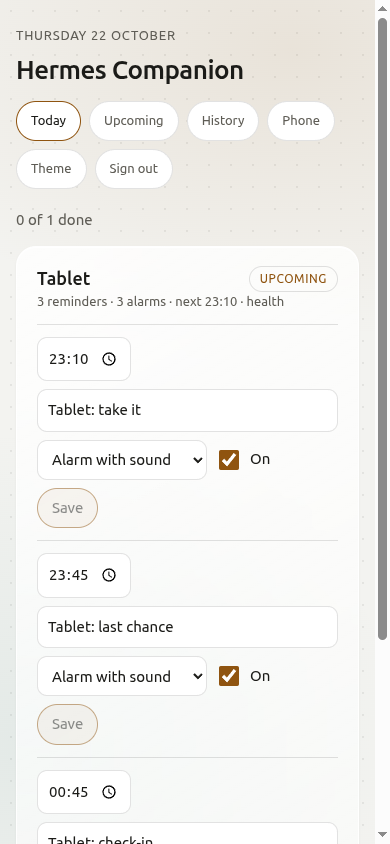
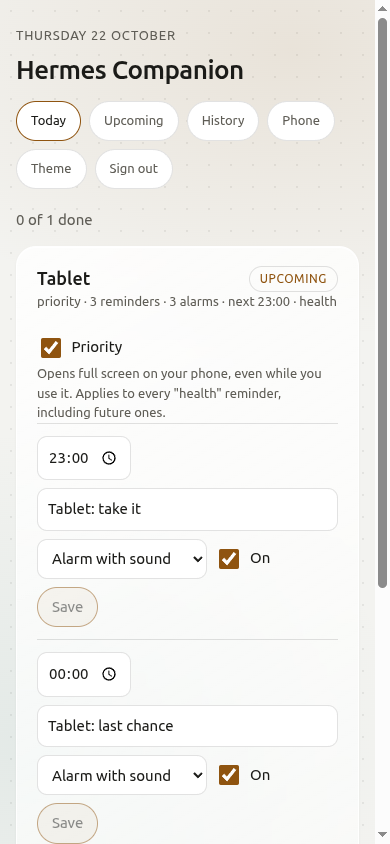
0.3.0: Priority switch (full-screen alarms), use case scenarios
Priority is set per activity on the dashboard and, for a named category, covers future reminders too.
The app opens priority reminders full screen even while in use (needs 'display over other apps').

Claude-Session: https://claude.ai/code/session_01BioHq6vUpe5WaqKVaAc2YH

diff --git a/apps/backend/app/static/dashboard.html b/apps/backend/app/static/dashboard.html
@@ -117,9 +117,16 @@ const openCards=new Set();
 function card(g,editable){const c=el('div','card stack');const h=el('button','head');h.type='button';h.setAttribute('aria-expanded',String(openCards.has(g.key)));
   const top=el('div','row');top.append(el('span','nm',g.title),el('span','state '+g.state,STATE[g.state]));
   const parts=[g.jobs.length+(g.jobs.length===1?' reminder':' reminders'),g.alarms+(g.alarms===1?' alarm':' alarms')];if(g.banners)parts.push(g.banners+(g.banners===1?' banner':' banners'));
+  const openJobs=g.jobs.filter(j=>j.state==='scheduled'||j.state==='fired'||j.state==='cancelled');const isPri=openJobs.length>0&&openJobs.every(j=>j.priority!=='normal');
+  if(isPri)parts.unshift('priority');
   if(g.next&&g.state==='upcoming')parts.push('next '+hhmm(T(g.next.fire_at)));if(g.category&&g.category!=='generic')parts.push(g.category);
   h.append(top,el('div','small muted',parts.join(' · ')));c.append(h);
   const body=el('div');body.hidden=!openCards.has(g.key);
+  if(editable&&openJobs.length){const pr=el('label','sw');pr.style.padding='10px 0 2px';const pc=el('input');pc.type='checkbox';pc.checked=isPri;pr.append(pc,el('span','','Priority'));
+    const cat=g.category&&g.category!=='generic'?g.category:'';
+    const help=el('div','small muted',cat?'Opens full screen on your phone, even while you use it. Applies to every "'+cat+'" reminder, including future ones.':'Opens full screen on your phone, even while you use it.');
+    pc.onchange=async()=>{try{const r=await send('POST','/api/priority',{job_id:openJobs[0].job_id,priority:pc.checked?'high':'normal'});toast(pc.checked?'Priority on':'Priority off');await load(true)}catch(e){pc.checked=!pc.checked;if(e.message!=='auth')toast(e.message)}};
+    body.append(pr,help)}
   g.jobs.forEach(j=>body.append(reminder(j,editable)));
   if(editable&&(g.state==='upcoming'||g.state==='noanswer')){const d=el('button','btn','Mark done');d.type='button';d.style.alignSelf='flex-start';
     d.onclick=async()=>{try{d.disabled=true;await send('POST','/api/reminders/'+g.jobs[0].job_id+'/done');toast('Marked done');await load(true)}catch(e){d.disabled=false;if(e.message!=='auth')toast(e.message)}};body.append(d)}

diff --git a/apps/frontend/app/src/main/java/com/hermes/companion/alarm/AlarmService.kt b/apps/frontend/app/src/main/java/com/hermes/companion/alarm/AlarmService.kt
@@ -73,9 +73,39 @@ class AlarmService : Service() {
         startAsForeground(NotificationHelper.ringingNotification(this, job))
         store.log("alarm", "ringing ${job.jobId} (${job.title})")
         startSound(job)
+        if (job.priority != "normal") showFullScreen(job)
         main.removeCallbacks(autoStop)
         main.postDelayed(autoStop, RING_TIMEOUT_MS)
         return START_NOT_STICKY
+    }
+
+    /**
+     * Priority reminders open the alarm screen straight away, even while another app is in use. Android only shows a
+     * banner in that case, so this needs the "display over other apps" permission; a tiny invisible overlay window
+     * is shown for a moment so Android lets the screen open from the background.
+     */
+    private fun showFullScreen(job: Job) {
+        if (!android.provider.Settings.canDrawOverlays(this)) return
+        val wm = getSystemService(android.view.WindowManager::class.java)
+        val marker = android.view.View(this)
+        val params = android.view.WindowManager.LayoutParams(
+            1, 1, android.view.WindowManager.LayoutParams.TYPE_APPLICATION_OVERLAY,
+            android.view.WindowManager.LayoutParams.FLAG_NOT_FOCUSABLE or android.view.WindowManager.LayoutParams.FLAG_NOT_TOUCHABLE,
+            android.graphics.PixelFormat.TRANSLUCENT,
+        )
+        runCatching { wm.addView(marker, params) }
+        try {
+            startActivity(
+                Intent(this, com.hermes.companion.AlarmActivity::class.java)
+                    .putExtra(com.hermes.companion.AlarmActivity.EXTRA_JOB, job.jobId)
+                    .putExtra(com.hermes.companion.AlarmActivity.EXTRA_RINGING, true)
+                    .addFlags(Intent.FLAG_ACTIVITY_NEW_TASK or Intent.FLAG_ACTIVITY_CLEAR_TOP),
+            )
+            Store.get(this).log("alarm", "priority full screen for ${job.jobId}")
+        } catch (e: Exception) {
+            Store.get(this).log("alarm", "priority full screen failed for ${job.jobId}: ${e.message}")
+        }
+        main.postDelayed({ runCatching { wm.removeView(marker) } }, 3_000)
     }
 
     private fun placeholderJob() = Job(

diff --git a/apps/frontend/app/src/main/java/com/hermes/companion/ui/SettingsScreen.kt b/apps/frontend/app/src/main/java/com/hermes/companion/ui/SettingsScreen.kt
@@ -100,6 +100,14 @@ fun SettingsScreen(state: UiState, vm: MainViewModel) {
         PermRow("Unrestricted battery use", state.perms.batteryUnrestricted, "Allow") {
             context.startActivity(openAppSettings(context, Settings.ACTION_REQUEST_IGNORE_BATTERY_OPTIMIZATIONS))
         }
+        PermRow("Show priority alarms over other apps", state.perms.overlay, "Allow") {
+            context.startActivity(openAppSettings(context, Settings.ACTION_MANAGE_OVERLAY_PERMISSION))
+        }
+        Text(
+            "Reminders marked Priority on the dashboard open full screen even while you are using the phone. This needs the " +
+                "\"over other apps\" permission. Without it they appear as a banner at the top.",
+            style = MaterialTheme.typography.bodyMedium,
+        )
         Text(
             "Alarms ring on the phone's alarm volume, even when the phone is on silent. " +
                 "Keep the alarm volume up (press a volume key and open the volume panel to check it).",
@@ -108,7 +116,8 @@ fun SettingsScreen(state: UiState, vm: MainViewModel) {
 
         HorizontalDivider()
         Text("Test", style = MaterialTheme.typography.titleMedium)
-        OutlinedButton(onClick = vm::testAlarm, modifier = Modifier.fillMaxWidth()) { Text("Ring a test alarm in 10 seconds") }
+        OutlinedButton(onClick = { vm.testAlarm(false) }, modifier = Modifier.fillMaxWidth()) { Text("Ring a test alarm in 10 seconds") }
+        OutlinedButton(onClick = { vm.testAlarm(true) }, modifier = Modifier.fillMaxWidth()) { Text("Ring a priority test alarm in 10 seconds") }
     }
 }
 

diff --git a/apps/frontend/app/src/main/java/com/hermes/companion/data/Store.kt b/apps/frontend/app/src/main/java/com/hermes/companion/data/Store.kt
@@ -266,12 +266,12 @@ class Store private constructor(context: Context) {
         }
     }
 
-    fun insertLocalTestJob(fireAtMs: Long): String {
+    fun insertLocalTestJob(fireAtMs: Long, priority: String = "normal"): String {
         val id = "local-test-$fireAtMs"
         val o = JSONObject()
-            .put("job_id", id).put("category", "test").put("title", "Test alarm")
+            .put("job_id", id).put("category", "test").put("title", if (priority == "normal") "Test alarm" else "Priority test alarm")
             .put("message", "If you can hear this, alarms work on this phone.")
-            .put("fire_at", Instant.ofEpochMilli(fireAtMs).toString()).put("priority", "critical")
+            .put("fire_at", Instant.ofEpochMilli(fireAtMs).toString()).put("priority", priority)
             .put("delivery", "alarm").put("sound_profile", "default").put("revision", 0)
             .put(
                 "actions",

diff --git a/apps/frontend/app/src/main/java/com/hermes/companion/Perms.kt b/apps/frontend/app/src/main/java/com/hermes/companion/Perms.kt
@@ -12,6 +12,8 @@ data class PermStatus(
     val fullScreen: Boolean = true,
     val exactAlarm: Boolean = true,
     val batteryUnrestricted: Boolean = true,
+    /** Needed only so priority reminders can open full screen while the phone is in use. */
+    val overlay: Boolean = true,
 ) {
     /** Without these the alarm cannot ring or show; battery settings only affect reliability on some phones. */
     val criticalOk get() = notifications && fullScreen && exactAlarm
@@ -23,5 +25,6 @@ object Perms {
         fullScreen = Build.VERSION.SDK_INT < 34 || context.getSystemService(NotificationManager::class.java).canUseFullScreenIntent(),
         exactAlarm = AlarmScheduler.canScheduleExact(context),
         batteryUnrestricted = context.getSystemService(PowerManager::class.java).isIgnoringBatteryOptimizations(context.packageName),
+        overlay = android.provider.Settings.canDrawOverlays(context),
     )
 }

diff --git a/apps/frontend/app/src/main/java/com/hermes/companion/ui/MainViewModel.kt b/apps/frontend/app/src/main/java/com/hermes/companion/ui/MainViewModel.kt
@@ -158,11 +158,11 @@ class MainViewModel(app: Application) : AndroidViewModel(app) {
         say("This phone is no longer paired.")
     }
 
-    fun testAlarm() {
+    fun testAlarm(priority: Boolean = false) {
         viewModelScope.launch(Dispatchers.IO) {
-            store.insertLocalTestJob(System.currentTimeMillis() + 10_000)
+            store.insertLocalTestJob(System.currentTimeMillis() + 10_000, if (priority) "high" else "normal")
             AlarmScheduler.reconcile(getApplication())
-            say("Test alarm will ring in 10 seconds.")
+            say(if (priority) "Priority test alarm will ring in 10 seconds. Open another app now to see it take over the screen." else "Test alarm will ring in 10 seconds.")
         }
     }
 }

diff --git a/apps/backend/tests/test_dashboard.py b/apps/backend/tests/test_dashboard.py
@@ -137,3 +137,38 @@ def test_edit_by_clock_time_uses_the_reminders_own_timezone(dash):
     assert r.json()["fire_at"] == "2030-07-01T12:05:00Z"  # 13:05 British Summer Time
     assert dash.get(f"/admin/jobs/{job['job_id']}", headers=ADMIN).json()["expires_at"] == "2030-07-01T13:05:00Z"
     assert dash.patch(f"/dashboard/api/reminders/{job['job_id']}", json={"time": "25:00"}).status_code == 422
+
+
+def test_priority_switch_covers_category_and_future_reminders(dash):
+    a = new_job(dash, fire_at=soon(60), category="prayer", cancel_group="p1", title="A")
+    b = new_job(dash, fire_at=soon(90), category="prayer", cancel_group="p2", title="B")
+    other = new_job(dash, fire_at=soon(90), category="health", title="C")
+    assert login(dash).status_code == 200
+    r = dash.post("/dashboard/api/priority", json={"job_id": a["job_id"], "priority": "high"})
+    assert r.status_code == 200 and r.json() == {"priority": "high", "scope": "category", "changed": 2}
+    pri = {j["title"]: j["priority"] for j in dash.get("/dashboard/api/state").json()["jobs"]}
+    assert pri == {"A": "high", "B": "high", "C": "normal"}
+    # a reminder created later in the same category inherits it, even if the sender asks for normal
+    late = new_job(dash, fire_at=soon(120), category="prayer", title="D", priority="normal")
+    assert late["priority"] == "high"
+    # switching off wins over a sender that asks for high
+    dash.post("/dashboard/api/priority", json={"job_id": a["job_id"], "priority": "normal"})
+    assert new_job(dash, fire_at=soon(150), category="prayer", title="E", priority="high")["priority"] == "normal"
+
+
+def test_priority_scopes_for_uncategorised_reminders(dash):
+    g1 = new_job(dash, fire_at=soon(60), cancel_group="g", title="G1")
+    g2 = new_job(dash, fire_at=soon(90), cancel_group="g", title="G2")
+    solo = new_job(dash, fire_at=soon(90), title="Solo")
+    assert login(dash).status_code == 200
+    assert dash.post("/dashboard/api/priority", json={"job_id": g1["job_id"], "priority": "high"}).json()["scope"] == "group"
+    assert dash.post("/dashboard/api/priority", json={"job_id": solo["job_id"], "priority": "high"}).json()["scope"] == "reminder"
+    pri = {j["title"]: j["priority"] for j in dash.get("/dashboard/api/state").json()["jobs"]}
+    assert pri == {"G1": "high", "G2": "high", "Solo": "high"}
+    assert dash.post("/dashboard/api/priority", json={"job_id": "nope", "priority": "high"}).status_code == 404
+    assert dash.post("/dashboard/api/priority", json={"job_id": g1["job_id"], "priority": "urgent"}).status_code == 422
+
+
+def test_priority_needs_sign_in(dash):
+    job = new_job(dash, fire_at=soon(60))
+    assert dash.post("/dashboard/api/priority", json={"job_id": job["job_id"], "priority": "high"}).status_code == 401

diff --git a/apps/backend/app/services.py b/apps/backend/app/services.py
@@ -91,6 +91,8 @@ def expire_due(conn: sqlite3.Connection) -> None:
 
 
 def create_job(conn: sqlite3.Connection, data: JobIn) -> dict:
+    rule = conn.execute("SELECT priority FROM category_priority WHERE category = ?", (data.category,)).fetchone()
+    priority = rule["priority"] if rule else data.priority
     job_id = data.job_id or uuid.uuid4().hex
     if conn.execute("SELECT 1 FROM jobs WHERE job_id = ?", (job_id,)).fetchone():
         raise Conflict(job_id)
@@ -102,7 +104,7 @@ def create_job(conn: sqlite3.Connection, data: JobIn) -> dict:
            VALUES (?, ?, ?, ?, ?, ?, ?, ?, ?, ?, ?, ?, 'scheduled', ?, ?, ?, ?)""",
         (
             job_id, data.routine_id, data.category, data.title, data.message, fmt(data.fire_at), data.tz,
-            fmt(data.expires_at) if data.expires_at else None, data.priority, data.delivery,
+            fmt(data.expires_at) if data.expires_at else None, priority, data.delivery,
             data.sound_profile, json.dumps([a.model_dump() for a in data.actions]),
             data.cancel_group, next_rev(conn), now, now,
         ),
@@ -166,6 +168,26 @@ def enable_job(conn: sqlite3.Connection, job_id: str) -> dict:
     )
     log_event(conn, "job_enabled", job_id=job_id)
     return job_to_dict(get_job(conn, job_id))
+
+
+def set_priority(conn: sqlite3.Connection, job_id: str, priority: str) -> dict:
+    """Owner's priority switch. A named category remembers the choice for future reminders too; otherwise it covers
+    the reminder's group, or the single reminder."""
+    row = get_job(conn, job_id)
+    if row["category"] != "generic":
+        conn.execute("INSERT OR REPLACE INTO category_priority(category, priority) VALUES (?, ?)", (row["category"], priority))
+        where, arg, scope = "category = ?", row["category"], "category"
+    elif row["cancel_group"]:
+        where, arg, scope = "cancel_group = ?", row["cancel_group"], "group"
+    else:
+        where, arg, scope = "job_id = ?", job_id, "reminder"
+    ids = [r["job_id"] for r in conn.execute(
+        f"SELECT job_id FROM jobs WHERE {where} AND state IN ('scheduled', 'fired') AND priority != ?", (arg, priority))]
+    for jid in ids:
+        conn.execute("UPDATE jobs SET priority = ?, revision = ?, updated_at = ? WHERE job_id = ?",
+                     (priority, next_rev(conn), now_iso(), jid))
+    log_event(conn, "priority_set", job_id=job_id, detail=f"{scope}={arg} priority={priority} changed={len(ids)}")
+    return {"priority": priority, "scope": scope, "changed": len(ids)}
 
 
 def mark_done(conn: sqlite3.Connection, job_id: str) -> dict:

diff --git a/apps/backend/app/reminders_api.py b/apps/backend/app/reminders_api.py
@@ -23,7 +23,7 @@ STYLES = {
 HISTORY_DAYS = 14
 FUTURE_DAYS = 8
 VISIBLE = ("job_id", "title", "message", "fire_at", "tz", "expires_at", "delivery", "sound_profile", "state",
-           "category", "cancel_group", "routine_id")
+           "category", "cancel_group", "routine_id", "priority")
 
 
 class ReminderEdit(BaseModel):
@@ -38,6 +38,11 @@ class ReminderEdit(BaseModel):
     @classmethod
     def utc(cls, v):
         return None if v is None else to_utc(v)
+
+
+class PriorityIn(BaseModel):
+    job_id: str
+    priority: Literal["normal", "high"]
 
 
 def style_of(job: dict) -> str:
@@ -82,6 +87,11 @@ def build_router(require_session) -> APIRouter:
         phones = [dict(p) for p in conn.execute(
             "SELECT name, created_at, last_seen_at FROM devices WHERE revoked_at IS NULL ORDER BY created_at")]
         return {"now": now_iso(), "jobs": jobs, "answers": answers, "phones": phones}
+
+    @router.post("/priority")
+    def priority(body: PriorityIn, conn: sqlite3.Connection = Depends(get_db)):
+        with tx(conn):
+            return _guard(lambda: services.set_priority(conn, body.job_id, body.priority))
 
     @router.patch("/reminders/{job_id}")
     def edit(job_id: str, body: ReminderEdit, conn: sqlite3.Connection = Depends(get_db)):

diff --git a/apps/backend/app/db.py b/apps/backend/app/db.py
@@ -46,6 +46,12 @@ CREATE TABLE IF NOT EXISTS jobs (
 CREATE INDEX IF NOT EXISTS idx_jobs_revision ON jobs(revision);
 CREATE INDEX IF NOT EXISTS idx_jobs_group ON jobs(cancel_group);
 
+-- Owner's priority choice per category (set from the dashboard). It wins over what the sender asked for.
+CREATE TABLE IF NOT EXISTS category_priority (
+    category TEXT PRIMARY KEY,
+    priority TEXT NOT NULL
+);
+
 CREATE TABLE IF NOT EXISTS responses (
     response_id TEXT PRIMARY KEY,
     job_id TEXT NOT NULL,

diff --git a/README.md b/README.md
@@ -2,7 +2,7 @@
 
 **Reminders you cannot miss. Your AI assistant (or any script) schedules real alarms on your Android phone, and the phone rings them by itself, even offline and on silent.**
 
-Version 0.2.0 · Android · open source (Apache-2.0) · runs on your own computer, no account, no subscription
+Version 0.3.0 · Android · open source (Apache-2.0) · runs on your own computer, no account, no subscription
 
 ![The dashboard: three reminders you can edit, switch off or mark done](docs/images/dashboard-today.png)
 
@@ -40,6 +40,55 @@ Those tools are good at what they do. This one is for the case where a missed re
 - **Habits:** water, exercise, sleep. The dashboard shows your streak.
 - **Anything your assistant should be able to wake you for.**
 
+## Use case scenarios
+Real examples of what people do with it. In each one you only talk to your assistant (or use `hc`); the phone and the dashboard do the rest.
+
+### 1. Five daily prayers, with a record of each
+**You say:** *"Here is this month's prayer timetable. Remind me for each prayer."*
+**What happens:** for each prayer your assistant sends a small group of reminders: a heads-up when the time starts, a "last chance" alarm before it ends, and a check-in afterwards. You switch **Priority** on for them once, so they open **full screen even while you are using the phone**, and they keep doing so every day.
+**What you do:** tap **Prayed**. The rest of that prayer's reminders cancel themselves, so you are never nagged for something you already did.
+**What you see:** the dashboard shows *3 of 5 done today*, a 14-day strip of done and missed for each prayer, and your assistant can answer *"Did I pray Asr yesterday?"*.
+
+### 2. Medicine, with proof you took it
+**You say:** *"Remind me at 8 and 8 in the evening to take my antibiotic for 7 days."*
+**What happens:** two alarms a day for a week, each with **Done** and **Snooze 10 min**. Mark it **Priority** and it will always take over the screen.
+**What you see:** every dose as done or missed, day by day. Ask *"Did I take the evening one yesterday?"* or show the history to your doctor or pharmacist. If you ring *Done* by accident, **Mark done** on the dashboard is one tap.
+
+### 3. Health habits you want to keep up
+**You say:** *"Remind me to drink water every two hours from 9 to 7, to stretch at 3, and to start winding down at 11 pm."*
+**What happens:** gentle **banner** reminders (no alarm), because none of these is an emergency. For the ones you really want to keep, such as the evening wind-down, switch the style to *alarm*.
+**What you see:** a habit card with a done-and-missed strip for the last 14 days, so you can see your streak without keeping a diary. Ask *"Which habit did I skip most this week?"*.
+
+### 4. Shifts, work and hand-overs
+**You say:** *"Wake me 45 minutes before my shift on weekdays, remind me to hand over at 5:30, and to send the invoices on Friday at 4."*
+**What happens:** a **priority alarm** for leaving on time, a **silent banner** for the hand-over (so it does not interrupt a meeting), and a normal alarm for the invoices.
+**What you see:** everything for the week under **Upcoming**. A shift changed? Move the time on the dashboard instead of asking again.
+
+### 5. Study or focus sessions
+**You say:** *"Four 25-minute study sessions with 5-minute breaks, starting at 6 pm."*
+**What happens:** eight short reminders: *start*, *break*, *start*… Use **banner, silent** so they nudge without breaking your concentration.
+**What you see:** how many sessions you finished each day, which makes a study streak.
+
+### 6. Home, bills and things that come round
+**You say:** *"Bins out every Thursday at 9 pm. Car insurance renews on 3 March, remind me a week before. Rent on the 1st."*
+**What happens:** one-off reminders days or weeks ahead, plus a repeating series. Because the phone holds the schedule itself, they ring even if your server is down that day.
+**What you see:** a quiet calendar of what is coming, and a record that the rent reminder was done.
+
+### 7. Your assistant looks after follow-ups for you
+**You say (while working on something with your assistant):** *"Remind me tomorrow at 9 to check the deployment."*
+**What happens:** your assistant sets the reminder itself, with a clear title and message. It can also set one at the end of a job it finishes: *"I'll remind you on Friday to review the results."*
+**What you do:** tap **Done** when you have checked. Your assistant reads the answer back, so it knows whether to follow up again.
+
+### Choosing how loud it should be
+| It matters... | Use | What the phone does |
+|---|---|---|
+| a lot, must not be missed | **Alarm + Priority** | rings on the alarm volume and opens full screen over whatever you are doing |
+| quite a bit | **Alarm** | rings on the alarm volume; shows as a banner at the top while you use the phone |
+| a little | **Banner** | a notification with sound |
+| but must not interrupt | **Banner, silent** or **Alarm, silent** | appears on screen, no sound |
+
+You can change any reminder's style, time or priority later on the dashboard.
+
 ## What do I need?
 - An **Android 12 or newer** phone.
 - A computer that stays on and runs your assistant: **Linux or macOS** (Windows works through WSL).
@@ -62,9 +111,9 @@ Server address:  100.x.x.x
 Pairing code:    ABCD2345     (valid for 60 minutes, works once)
 ```
 
-**3. Install the app.** On your phone, open the [latest release](https://github.com/Nehian/hermes-companion/releases/latest), download `HermesCompanion-0.2.0.apk` and open it. Android will ask you to allow installing from this source. Say yes.
+**3. Install the app.** On your phone, open the [latest release](https://github.com/Nehian/hermes-companion/releases/latest), download `HermesCompanion-0.3.0.apk` and open it. Android will ask you to allow installing from this source. Say yes.
 
-**4. Pair the phone.** Open the app, go to **Settings**, type the **server address** and the **pairing code**, and tap **Pair**. Then tap **Allow** on each row that says "Needs attention" (alarms, full-screen, battery). Tap **Ring a test alarm** to hear it.
+**4. Pair the phone.** Open the app, go to **Settings**, type the **server address** and the **pairing code**, and tap **Pair**. Then tap **Allow** on each row that says "Needs attention" (alarms, full-screen, battery, and *show priority alarms over other apps*). Tap **Ring a test alarm** to hear it, and **Ring a priority test alarm**, then open another app, to see a priority alarm take over the screen.
 
 **5. Teach your assistant.** On the computer, run:
 ```sh
@@ -112,7 +161,9 @@ It is a web page served by your own server, reachable over Tailscale. It is **of
 ## What can I customise?
 **On the phone (Settings → Sound):** the alarm tone, how loud it rings, and whether it always vibrates.
 
-**On the dashboard, for each reminder:** its time, its title, its style, an on/off switch, and a **Mark done** button for the whole activity.
+**On the dashboard, for each reminder:** its time, its title, its style, and an on/off switch. For each activity: a **Priority** switch and a **Mark done** button.
+
+**Priority:** off by default. When it is on, the phone opens the reminder **full screen** straight away, even while you are using another app, instead of only showing a banner at the top. For a named category (for example `prayer`) the switch also covers every future reminder in that category, so you turn it on once. It needs the *show over other apps* permission, which the app's Settings page asks for.
 Styles: *alarm with sound*, *alarm, silent*, *banner with sound*, *banner, silent*. Your phone picks up the change the next time it syncs. A reminder you switch off stays visible and can be switched back on.
 
 The split is simple: the phone decides **how it sounds**, the dashboard and your assistant decide **what each reminder does**.

diff --git a/docs/API.md b/docs/API.md
@@ -84,6 +84,7 @@ Served at `/dashboard` only when `DASHBOARD_PASSWORD_HASH` is set (run `dashboar
 |---|---|
 | `GET /dashboard/api/state` | reminders (last 14 days to next 8), phone answers, paired phones (no keys or tokens) |
 | `PATCH /dashboard/api/reminders/{job_id}` | change `title`, `fire_at` (or `time` as `HH:MM` in the reminder's own timezone), `style` (`alarm`, `alarm-silent`, `banner`, `banner-silent`) or `enabled` |
+| `POST /dashboard/api/priority` | `{ "job_id": "…", "priority": "high" or "normal" }`: the owner's priority switch. For a named `category` it applies to all open reminders in it and to every future one (it wins over what the sender asked for); otherwise to the reminder's group, or the single reminder |
 | `POST /dashboard/api/reminders/{job_id}/done` | mark the reminder's whole group done (records a "completed" answer) |
 
 Switching a reminder off cancels it; switching it back on is allowed until its time has passed.
